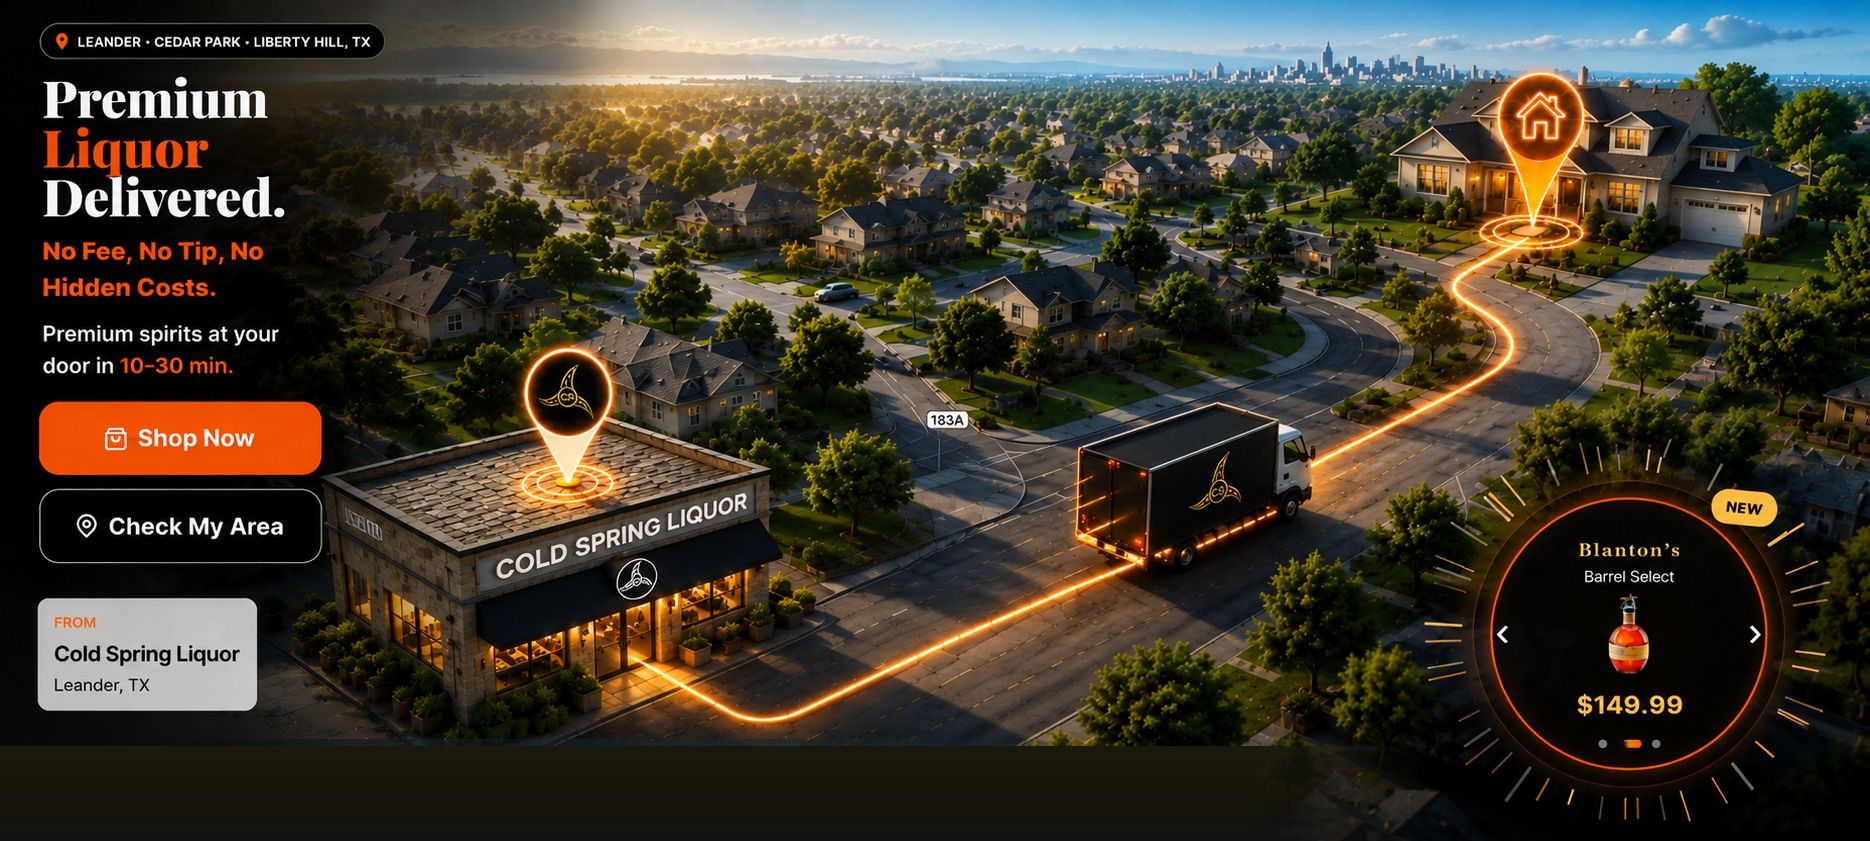
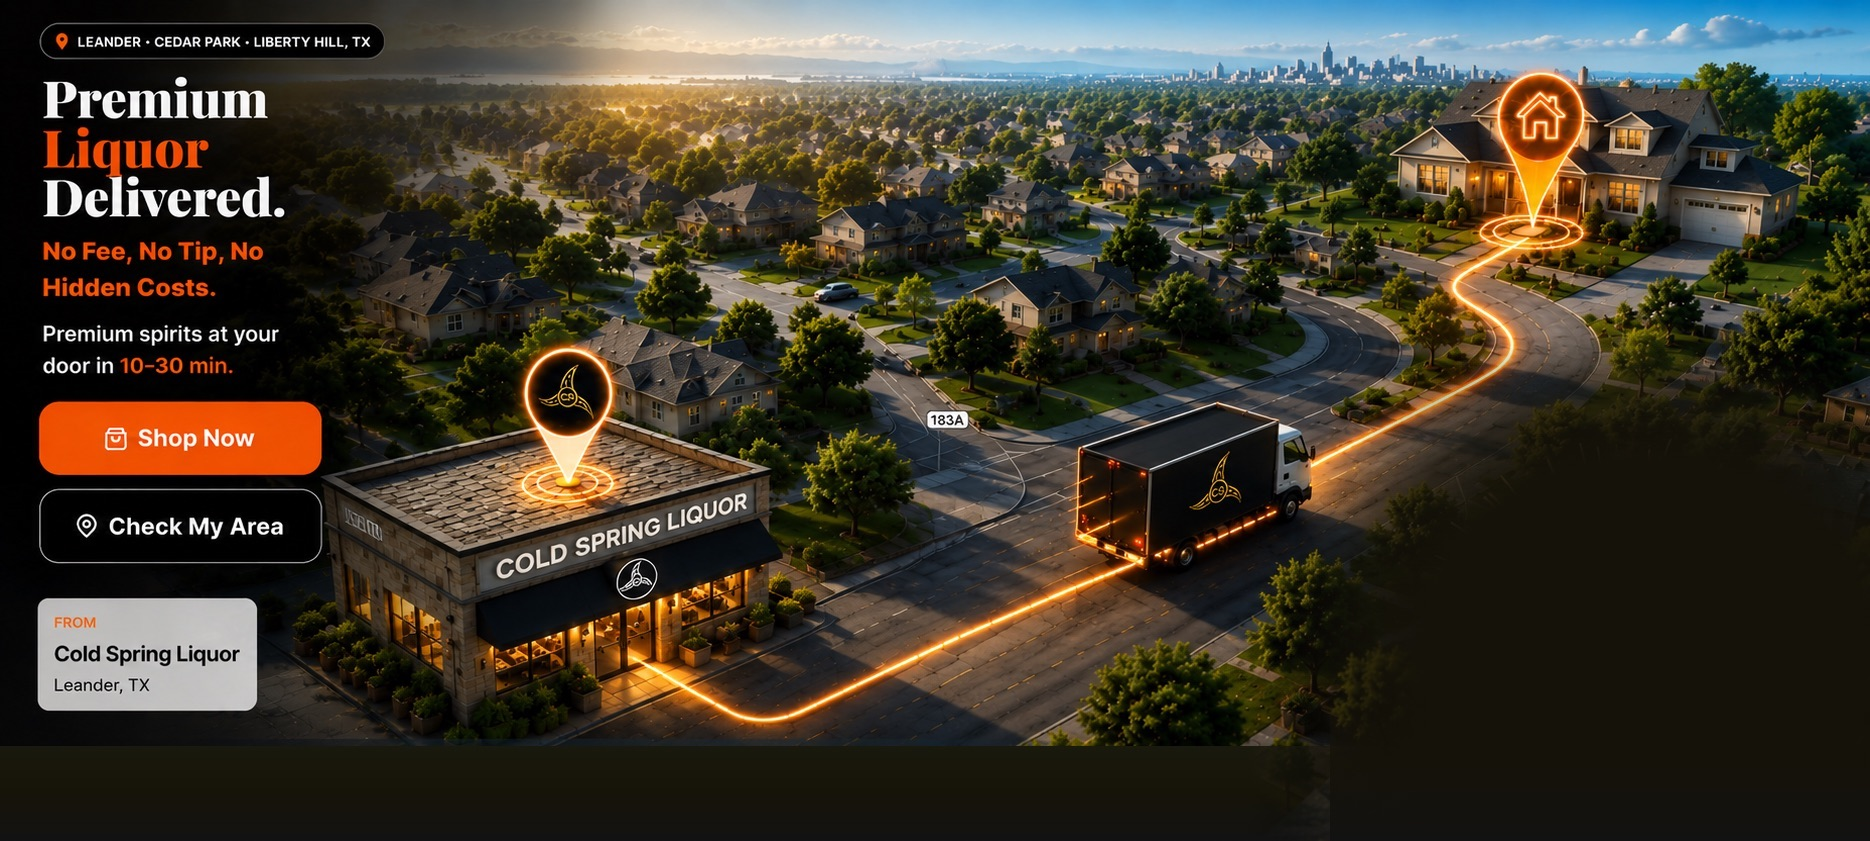
Fix desktop day hero: replace baked showcase mock with the real component
- Erase the baked-in showcase circle from hero-bg-day.jpg (restored the
  dark corner zone it sat on)
- Desktop day: HeroShowcase locks its center onto that zone and the comet
  pulse anchors to the daylight artwork's store pin; night placement and
  mobile are unchanged (still admin-configured)
- Showcase reacts to data-hero-theme changes via MutationObserver

Changed region(s): [[0.7134, 0.4019, 1.0, 0.9275], [0.7444, 0.9275, 0.7754, 0.9584]]

diff --git a/apps/web/src/components/layout/HeroShowcase.tsx b/apps/web/src/components/layout/HeroShowcase.tsx
@@ -47,7 +47,15 @@ export interface HeroShowcaseConfig {
 const ANCHOR = {
   mobile: { x: 0.20, y: 0.667, bowX: 30, bowY: 60 },
   desktop: { x: 0.107, y: 0.737, bowX: 40, bowY: 95 },
+  /* daylight desktop artwork (hero-bg-day.jpg): pin sits on the store roof */
+  desktopDay: { x: 0.304, y: 0.573, bowX: 20, bowY: 110 },
 };
+
+/* Daylight desktop artwork has a dark corner reserved for the showcase
+   (the baked-in mock circle was erased from the image). Center of that
+   zone as fractions of the hero box — placement is locked here so the
+   circle always sits on the dark zone regardless of admin left/bottom. */
+const DAY_DESKTOP_CENTER = { x: 0.8797, y: 0.7729 };
 
 const showcaseCSS = `
   .hsc-outer{position:absolute;z-index:8;aspect-ratio:1/1;}
@@ -167,6 +175,7 @@ export function HeroShowcase() {
   const [leaving, setLeaving] = useState(false);
   const [entering, setEntering] = useState(false);
   const [isMobile, setIsMobile] = useState(false);
+  const [isDay, setIsDay] = useState(false);
   const router = useRouter();
 
   const outerRef = useRef<HTMLDivElement>(null);
@@ -210,6 +219,18 @@ export function HeroShowcase() {
     apply();
     mq.addEventListener("change", apply);
     return () => mq.removeEventListener("change", apply);
+  }, []);
+
+  /* Day/night theme — HeroThemeController owns data-hero-theme on the section;
+     desktop day relocates the circle onto the daylight artwork's dark corner. */
+  useEffect(() => {
+    const hero = document.querySelector<HTMLElement>(".hero-section");
+    if (!hero) return;
+    const apply = () => setIsDay(hero.dataset.heroTheme === "day");
+    apply();
+    const mo = new MutationObserver(apply);
+    mo.observe(hero, { attributes: true, attributeFilter: ["data-hero-theme"] });
+    return () => mo.disconnect();
   }, []);
 
   /* spark field, spur path, cycle scheduling */
@@ -331,15 +352,21 @@ export function HeroShowcase() {
 
     const layoutSpur = () => {
       const rect = hero.getBoundingClientRect();
-      const a = isMobile ? ANCHOR.mobile : ANCHOR.desktop;
+      const dayDesktop = !isMobile && isDay;
+      const a = isMobile ? ANCHOR.mobile : dayDesktop ? ANCHOR.desktopDay : ANCHOR.desktop;
       const pos = isMobile ? config.mobile : config.desktop;
       const ax = rect.width * a.x, ay = rect.height * a.y;
       // mirror the CSS min(sizePx, 56vw) cap so the pulse lands dead-center
       const effSize = Math.min(pos.size, window.innerWidth * 0.56);
-      let cxPx: number;
-      if (isMobile) cxPx = rect.width - rect.width * (config.mobile.right / 100) - effSize / 2;
-      else cxPx = rect.width * (config.desktop.left / 100) + effSize / 2;
-      const cyPx = rect.height - rect.height * (pos.bottom / 100) - effSize / 2;
+      let cxPx: number, cyPx: number;
+      if (dayDesktop) {
+        cxPx = rect.width * DAY_DESKTOP_CENTER.x;
+        cyPx = rect.height * DAY_DESKTOP_CENTER.y;
+      } else {
+        if (isMobile) cxPx = rect.width - rect.width * (config.mobile.right / 100) - effSize / 2;
+        else cxPx = rect.width * (config.desktop.left / 100) + effSize / 2;
+        cyPx = rect.height - rect.height * (pos.bottom / 100) - effSize / 2;
+      }
       const mx = (ax + cxPx) / 2 + a.bowX, my = (ay + cyPx) / 2 + a.bowY;
       const d = `M ${ax.toFixed(1)} ${ay.toFixed(1)} Q ${mx.toFixed(1)} ${my.toFixed(1)} ${cxPx.toFixed(1)} ${cyPx.toFixed(1)}`;
       spurPathRef.current?.setAttribute("d", d);
@@ -378,7 +405,7 @@ export function HeroShowcase() {
       if (cycleRef.current) clearTimeout(cycleRef.current);
       if (resumeRef.current) clearTimeout(resumeRef.current);
     };
-  }, [config, isMobile, scheduleCycle]);
+  }, [config, isMobile, isDay, scheduleCycle]);
 
   if (!config) return null;
   // per-device visibility, admin-controlled (desktop defaults OFF — its hero
@@ -393,6 +420,12 @@ export function HeroShowcase() {
   // hero on small screens (e.g. 320px-wide phones). No effect at defaults.
   const outerStyle: React.CSSProperties = isMobile
     ? { width: `min(${config.mobile.size}px, 56vw)`, right: `${config.mobile.right}%`, bottom: `${config.mobile.bottom}%` }
+    : isDay
+    ? { // daylight artwork: circle center locked onto the dark corner zone
+        width: `min(${config.desktop.size}px, 56vw)`,
+        left: `calc(${(DAY_DESKTOP_CENTER.x * 100).toFixed(2)}% - min(${config.desktop.size / 2}px, 28vw))`,
+        bottom: `calc(${((1 - DAY_DESKTOP_CENTER.y) * 100).toFixed(2)}% - min(${config.desktop.size / 2}px, 28vw))`,
+      }
     : { width: `min(${config.desktop.size}px, 56vw)`, left: `${config.desktop.left}%`, bottom: `${config.desktop.bottom}%` };
 
   function handleSlideClick() {